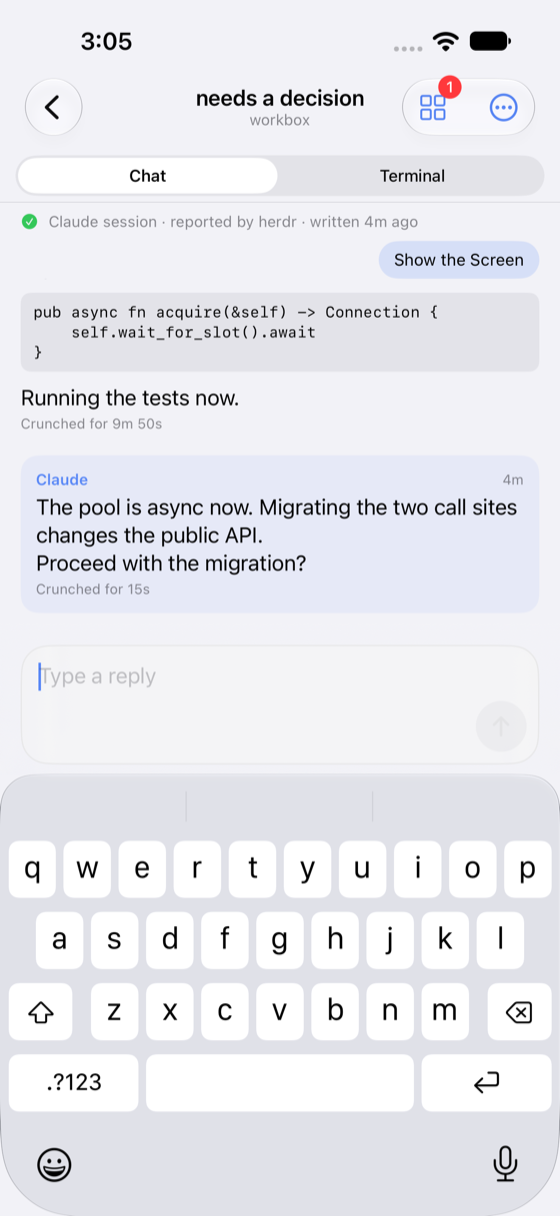
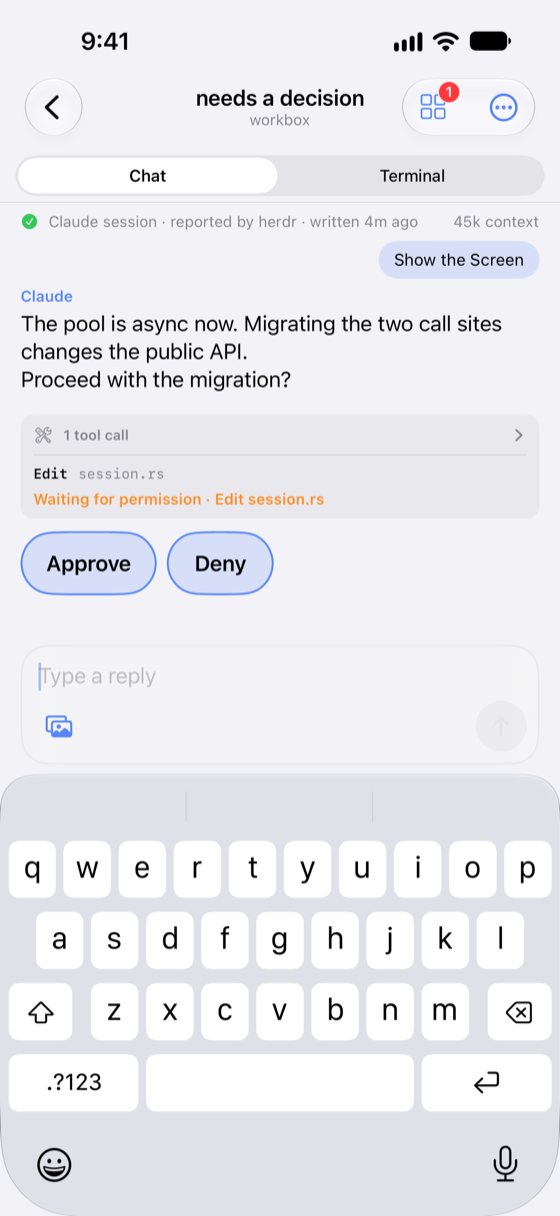
deploy: 69a6a4a1917560a0d3ee87ddcd6286759cdfe210

diff --git a/projects/driverr/index.html b/projects/driverr/index.html
@@ -6,7 +6,7 @@ A native iOS SSH client built around <a href="https://github.com/herdrdev/herdr"
             a terminal.
 </p> <p class="mt-2 font-mono text-xs text-slate-500">
 SwiftUI &middot; SwiftNIO SSH &middot; iPhone + iPad &middot; free and open source
-</p> </div> </div> </div> <div class="grid grid-cols-3 gap-2 md:gap-4"> <img src="/projects/driverr/needs-you.png" alt="Session view: a Needs you section listing the blocked agent above the workspace tree" class="w-full rounded-xl border border-slate-700/50 shadow-lg" loading="lazy"> <img src="/projects/driverr/reply.png" alt="Composer: a text field and a row of keys a phone keyboard lacks, for answering an agent" class="w-full rounded-xl border border-slate-700/50 shadow-lg" loading="lazy"> <img src="/projects/driverr/terminal.png" alt="Terminal attached to a pane, showing a live agent session with a key row above the keyboard" class="w-full rounded-xl border border-slate-700/50 shadow-lg" loading="lazy"> </div> <div class="rounded-xl border border-slate-700/50 bg-slate-800 p-8 shadow-xl"> <h2 class="mb-4 text-base font-semibold text-slate-100">What it does</h2> <div class="space-y-5 text-sm leading-relaxed text-slate-300"> <section> <h3 class="mb-1 font-semibold text-cyan-400">Which agent is waiting on you</h3> <p class="text-slate-400">Every blocked agent is collected at the top of the session, named with the workspace and tab it came from. The answer to &quot;is anything waiting on me?&quot; is the first thing on screen, not something you go looking for in a grid of characters.</p> </section><section> <h3 class="mb-1 font-semibold text-cyan-400">Answer without reading a terminal</h3> <p class="text-slate-400">A composer with a text field and the keys a phone keyboard does not have — Escape, Ctrl-C, arrows, y and n. Two taps to unblock an agent from a phone, without pinch-zooming a 120-column screen.</p> </section><section> <h3 class="mb-1 font-semibold text-cyan-400">A real terminal when you want one</h3> <p class="text-slate-400">Attach to any pane, with a key row for the characters iOS hides, and themes and type sizes you can change while looking at the terminal rather than guessing. Split, rename or close a pane from the toolbar, and open a new one from the pane switcher.</p> </section><section> <h3 class="mb-1 font-semibold text-cyan-400">Private by architecture</h3> <p class="text-slate-400">Driverr talks straight to machines you own. Keys and passwords live in the iOS keychain. A private key never leaves the device, and a password goes only to the host you saved it for. Host keys are checked on first sight and a change stops the connection hard. No accounts, no analytics, no backend of mine anywhere in the path.</p> </section> </div> </div> <div class="rounded-xl border border-slate-700/50 bg-slate-800 p-8 shadow-xl"> <h2 class="mb-4 text-base font-semibold text-slate-100">How it&rsquo;s built</h2> <ul class="space-y-2 text-sm"> <li class="flex gap-2 text-slate-400"> <span class="select-none text-cyan-500">&rsaquo;</span> <span> <strong class="text-slate-300">SwiftUI + @Observable</strong> — iOS 26, universal iPhone and iPad, Swift 6 with strict concurrency </span> </li><li class="flex gap-2 text-slate-400"> <span class="select-none text-cyan-500">&rsaquo;</span> <span> <strong class="text-slate-300">SwiftNIO SSH</strong> — a real SSH client — Ed25519 keys generated or imported on device, password auth, and trust-on-first-use host key checking </span> </li><li class="flex gap-2 text-slate-400"> <span class="select-none text-cyan-500">&rsaquo;</span> <span> <strong class="text-slate-300">Strict layering</strong> — NIOSSH types never leave the SSH module and herdr wire types never leave the herdr module, so stores are testable with no socket and upstream churn is confined to one file each </span> </li><li class="flex gap-2 text-slate-400"> <span class="select-none text-cyan-500">&rsaquo;</span> <span> <strong class="text-slate-300">A terminal that tests in milliseconds</strong> — SwiftTerm is wrapped behind a byte-stream feed, so the session logic runs against a headless terminal in unit tests instead of a simulator </span> </li> </ul> <p class="mt-6 text-sm text-slate-400">
+</p> </div> </div> </div> <div class="grid grid-cols-3 gap-2 md:gap-4"> <img src="/projects/driverr/needs-you.png" alt="Session view: a Needs you section listing the blocked agent above the workspace tree" class="w-full rounded-xl border border-slate-700/50 shadow-lg" loading="lazy"> <img src="/projects/driverr/reply.png" alt="Chat view of a blocked agent: its question, Approve and Deny buttons, and a reply field" class="w-full rounded-xl border border-slate-700/50 shadow-lg" loading="lazy"> <img src="/projects/driverr/terminal.png" alt="Terminal attached to a pane, showing a live agent session with a key row above the keyboard" class="w-full rounded-xl border border-slate-700/50 shadow-lg" loading="lazy"> </div> <div class="rounded-xl border border-slate-700/50 bg-slate-800 p-8 shadow-xl"> <h2 class="mb-4 text-base font-semibold text-slate-100">What it does</h2> <div class="space-y-5 text-sm leading-relaxed text-slate-300"> <section> <h3 class="mb-1 font-semibold text-cyan-400">Which agent is waiting on you</h3> <p class="text-slate-400">Every blocked agent is collected at the top of the session, named with the workspace and tab it came from. The answer to &quot;is anything waiting on me?&quot; is the first thing on screen, not something you go looking for in a grid of characters.</p> </section><section> <h3 class="mb-1 font-semibold text-cyan-400">Answer without reading a terminal</h3> <p class="text-slate-400">A composer with a text field and the keys a phone keyboard does not have — Escape, Ctrl-C, arrows, y and n. Two taps to unblock an agent from a phone, without pinch-zooming a 120-column screen.</p> </section><section> <h3 class="mb-1 font-semibold text-cyan-400">A real terminal when you want one</h3> <p class="text-slate-400">Attach to any pane, with a key row for the characters iOS hides, and themes and type sizes you can change while looking at the terminal rather than guessing. Split, rename or close a pane from the toolbar, and open a new one from the pane switcher.</p> </section><section> <h3 class="mb-1 font-semibold text-cyan-400">Private by architecture</h3> <p class="text-slate-400">Driverr talks straight to machines you own. Keys and passwords live in the iOS keychain. A private key never leaves the device, and a password goes only to the host you saved it for. Host keys are checked on first sight and a change stops the connection hard. No accounts, no analytics, no backend of mine anywhere in the path.</p> </section> </div> </div> <div class="rounded-xl border border-slate-700/50 bg-slate-800 p-8 shadow-xl"> <h2 class="mb-4 text-base font-semibold text-slate-100">How it&rsquo;s built</h2> <ul class="space-y-2 text-sm"> <li class="flex gap-2 text-slate-400"> <span class="select-none text-cyan-500">&rsaquo;</span> <span> <strong class="text-slate-300">SwiftUI + @Observable</strong> — iOS 26, universal iPhone and iPad, Swift 6 with strict concurrency </span> </li><li class="flex gap-2 text-slate-400"> <span class="select-none text-cyan-500">&rsaquo;</span> <span> <strong class="text-slate-300">SwiftNIO SSH</strong> — a real SSH client — Ed25519 keys generated or imported on device, password auth, and trust-on-first-use host key checking </span> </li><li class="flex gap-2 text-slate-400"> <span class="select-none text-cyan-500">&rsaquo;</span> <span> <strong class="text-slate-300">Strict layering</strong> — NIOSSH types never leave the SSH module and herdr wire types never leave the herdr module, so stores are testable with no socket and upstream churn is confined to one file each </span> </li><li class="flex gap-2 text-slate-400"> <span class="select-none text-cyan-500">&rsaquo;</span> <span> <strong class="text-slate-300">A terminal that tests in milliseconds</strong> — SwiftTerm is wrapped behind a byte-stream feed, so the session logic runs against a headless terminal in unit tests instead of a simulator </span> </li> </ul> <p class="mt-6 text-sm text-slate-400">
 Driverr is most useful alongside herdr, which keeps coding agents running in persistent
         background terminals; it works as a plain SSH client without it. It is an independent
         project and is not affiliated with or endorsed by herdr, Anthropic or OpenAI.
